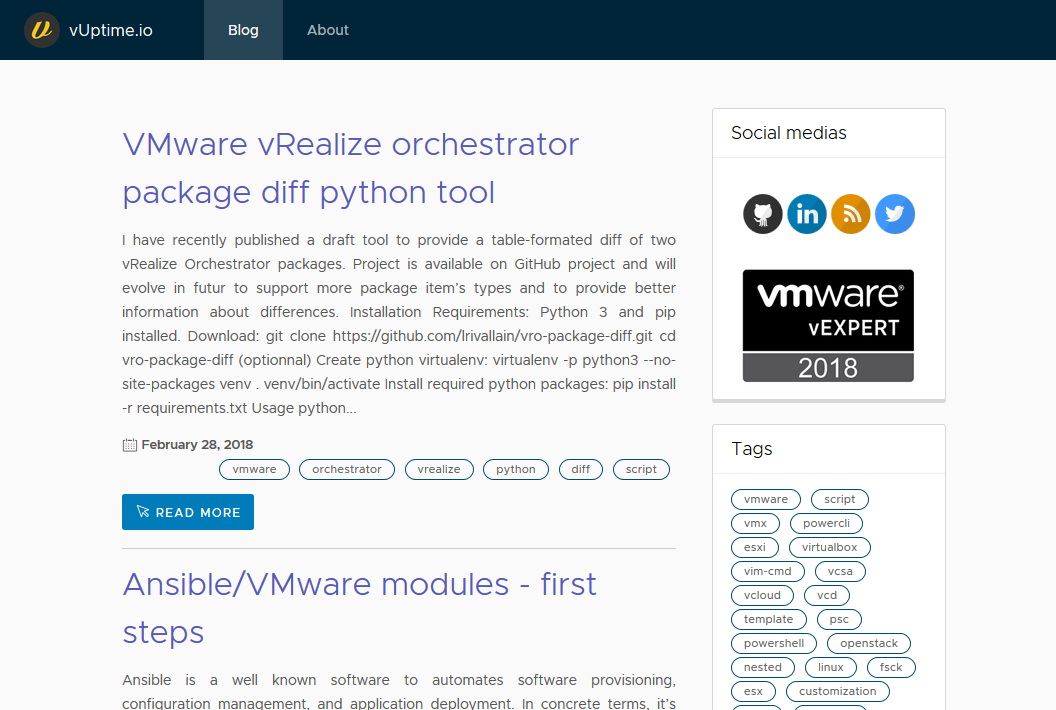
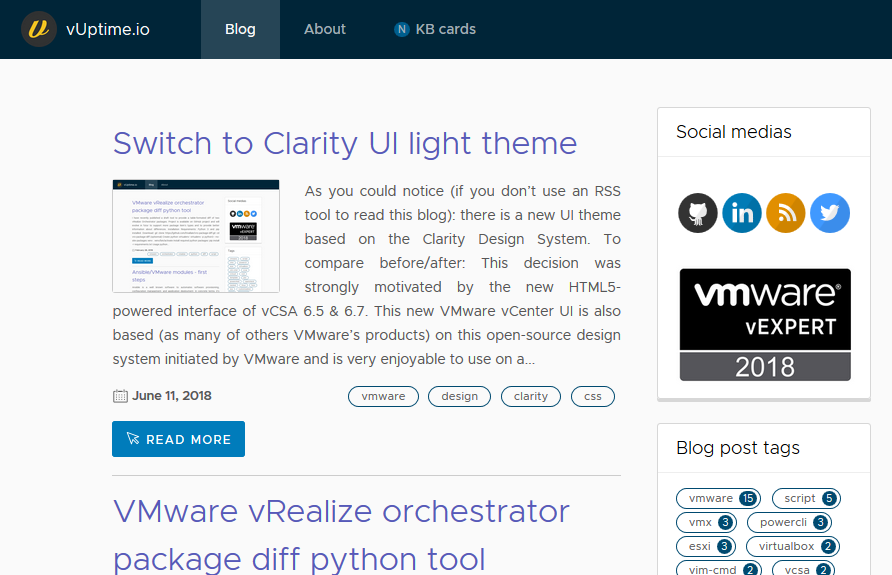
multi authorship support

diff --git a/_sass/_svg-icons.scss b/_sass/_svg-icons.scss
@@ -5,6 +5,7 @@
 
   &.keybaseio     { background-image: url('./images/icon-keybase-logo-40.png'); }
   &.mastodon      { background-image: url('./images/mastodon.png'); }
+  &.blog          { background-image: url('./images/icon-blog.png'); }
 
[2 lines of base64/hex data omitted]

diff --git a/index.html b/index.html
@@ -5,55 +5,63 @@ layout: blog
 <div class="posts">
   {% for post in paginator.posts %}
     <article class="">
-
       <h1><a href="{{ site.baseurl }}{{ post.url }}">{{ post.title }}</a></h1>
-
-	  {% if post.thumb %}
-	  <div class="thumb">
-	    <img src="{{ post.thumb }}" alt="{{ post.title }}">
-	  </div>
-	  {% endif %}
+      {% if post.thumb %}
+      <div class="thumb">
+        <img src="{{ post.thumb }}" alt="{{ post.title }}">
+      </div>
+      {% endif %}
       <div class="entry">
         {{ post.content | strip_html | truncatewords:75 }}
       </div>
-
-      <div class="small info">
-        <div class="date">
-		  <clr-icon shape="calendar"></clr-icon> {{ post.date | date: "%B %e, %Y" }}
-	    </div>
-
-        <div class="right">
-         {% for tag in post.tags %}
-           <a href="/tag/{{ tag }}/" class="label label-blue clickable small">{{ tag }}</a>
-         {% endfor %}
+	  <div class="info">
+        <div class="block left-block">
+          <a class="btn btn-primary" href="{{ site.baseurl }}{{ post.url }}" class="read-more">
+            <clr-icon shape="cursor-arrow" title="Read more"></clr-icon> Read More
+          </a>
         </div>
-      </div>
+        <div class="small-info block right-block">
+          <ul style="display: inline-block;">
+            <li><clr-icon shape="calendar"></clr-icon> {{ post.date | date: "%B %e, %Y" }}</li>
+            <li><clr-icon shape="user"></clr-icon>
+              {% for author in site.data.authors %}
+                {% if post.author == author.nick %}
+                  <a href="/about/#{{ author.nick }}" title="Details about author">{{ author.display_name }}</a>
+                  {% break %}
+                {% endif %}
+              {% endfor %}
+            </li>
 
-      <a class="btn btn-primary" href="{{ site.baseurl }}{{ post.url }}" class="read-more">
-		  <clr-icon shape="cursor-arrow" title="Read more"></clr-icon> Read More
-	  </a>
+          <li>
+			{% for tag in post.tags %}
+			  <a href="/tag/{{ tag }}/" class="label label-blue clickable small">{{ tag }}</a>
+            {% endfor %}
+          </li>
+        </div>
+	  </div>
     </article>
   {% endfor %}
 </div>
 
 {% if paginator.total_pages > 1 %}
   <!-- Pagination links -->
-  <hr>
-  <nav class="subnav">
+  <nav class="subnav pagination">
     <div class="prev">
       {% if paginator.previous_page %}
         <a href="{{ paginator.previous_page_path }}" class="previous">
           <button class="btn btn-sm">◀ Previous</button>
         </a>
-	  {% endif %}
+      {% endif %}
     </div>
-	<div class="page_number ">Page: {{ paginator.page }} of {{ paginator.total_pages }}</div>
-	<div class="next">
+    <div class="page_number ">Page: {{ paginator.page }} of {{ paginator.total_pages }}</div>
+    <div class="next">
       {% if paginator.next_page %}
         <a href="{{ paginator.next_page_path }}" class="next">
           <button class="btn btn-primary btn-sm">Next ▶</button>
         </a>
       {% endif %}
-  	</div>
+      </div>
   </nav>
 {% endif %}
+
+

diff --git a/_layouts/card.html b/_layouts/card.html
@@ -15,15 +15,28 @@ layout: default
         </div>
         <div class="card-block">
           <div class="post_infos">
-            <div>
-              <strong>Published:</strong>
-              <clr-icon shape="calendar"></clr-icon> {{ page.date | date: "%B %e, %Y" }}
-            </div>
-            <div><strong>Tags:</strong> {% for tag in page.tags %} {% capture tag_name %}{{ tag }}{% endcapture %}
-              <a href="/cards_tag/{{ tag_name }}/" class="label label-blue clickable">{{ tag_name }}</a> {% endfor %}
-            </div>
-          </div>
-
+        	<ul>
+            	<li>
+                	<strong>Published:</strong>
+                	<clr-icon shape="calendar"></clr-icon> {{ page.date | date: "%B %e, %Y" }}
+            	</li>
+            	<li>
+                	<strong>Author:</strong>
+                	<clr-icon shape="user"></clr-icon>
+                	{% for author in site.data.authors %}
+                    	{% if page.author == author.nick %}
+                        	<a href="/about/#{{ author.nick }}" title="Details about author">{{ author.display_name }}</a>
+                        	{% break %}
+                    	{% endif %}
+                	{% endfor %}
+            	</li>
+            	<li>
+                	<strong>Tags:</strong> {% for tag in page.tags %} {% capture tag_name %}{{ tag }}{% endcapture %}
+                	<a href="/cards_tag/{{ tag_name }}/" class="label label-blue clickable">{{ tag_name }}</a> {% endfor %}
+            	</li>
+        	</ul>
+    	  </div>
+ 
           <div class="post_entry">
             {{ content | markdownify }}
           </div>

diff --git a/_layouts/post.html b/_layouts/post.html
@@ -5,18 +5,31 @@ layout: blog
 <article class="post">
     <h1>{{ page.title }}</h1>
     <div class="post_infos">
-        <div>
-            <strong>Published:</strong>
-            <clr-icon shape="calendar"></clr-icon> {{ page.date | date: "%B %e, %Y" }}
-        </div>
-        <div><strong>Tags:</strong> {% for tag in page.tags %} {% capture tag_name %}{{ tag }}{% endcapture %}
-            <a href="/tag/{{ tag_name }}/" class="label label-blue clickable">{{ tag_name }}</a> {% endfor %}
-        </div>
+        <ul>
+            <li>
+                <strong>Published:</strong>
+                <clr-icon shape="calendar"></clr-icon> {{ page.date | date: "%B %e, %Y" }}
+            </li>
+            <li>
+			    <strong>Author:</strong>
+                <clr-icon shape="user"></clr-icon>
+                {% for author in site.data.authors %}
+                    {% if page.author == author.nick %}
+                        <a href="/about/#{{ author.nick }}" title="Details about author">{{ author.display_name }}</a>
+                        {% break %}
+                    {% endif %}
+                {% endfor %}
+            </li>
+            <li>
+                <strong>Tags:</strong> {% for tag in page.tags %} {% capture tag_name %}{{ tag }}{% endcapture %}
+                <a href="/tag/{{ tag_name }}/" class="label label-blue clickable">{{ tag_name }}</a> {% endfor %}
+            </li>
+        </ul>
     </div>
 
     <div class="post_entry">
         {{ content }}
     </div>
 
-    <hr> {% include disqus.html %}
+    {% include disqus.html %}
 </article>

diff --git a/style.scss b/style.scss
@@ -14,18 +14,29 @@ body { overflow: auto; } // fix clr-issue with x-scrollbar
 }
 
 .info {
-  display: inline-block;
   width: 100%;
   margin-top:0.5rem;
+  position: relative;
 }
 
-.small {
+.block {
+  display: inline-block;
+  margin-bottom: 1rem;
+}
+
+.small-info {
   font-size:0.9em;
 }
 
-.right {
+.right-block {
   float: right;
   text-align: right;
+}
+
+.left-block {
+  position: absolute;
+  top: 50%;
+  transform: translateY(50%);
 }
 
 .center {
@@ -54,10 +65,11 @@ pre {
   margin-top: 0.5rem;
 }
 
-.posts article {
+.posts article, .pagination {
   border-top: 1px solid #ccc;
   font-weight: 400;
   margin-bottom: 0.5rem;
+  clear: both;
 }
 
 .posts article .thumb {
@@ -74,7 +86,15 @@ pre {
 
 .post_infos, .post_entry, .comments {
   margin-top: 1rem;
-  margin-bottom: 1rem;
+  padding-bottom: 1rem;
+}
+
+.post_infos, .post_entry, {
+  border-bottom: 1px solid #ccc;
+}
+
+.small-info ul, .post_infos ul {
+  list-style-type: none;
 }
 
 .posts article .entry {
@@ -132,7 +152,7 @@ pre {
     display: none;
   }
   .header .branding, header .branding {
-     min-width: 0px;
+    min-width: 0px;
   }
 }
 

diff --git a/_layouts/default.html b/_layouts/default.html
@@ -36,8 +36,8 @@
             </div>
             <div class="header-nav">
               <a href="/" class="active nav-link nav-text" id="link-blog">Blog</a>
-              <a href="/about" class="nav-link nav-text" id="link-about">About</a>
               <a href="/cards" class="nav-link nav-text" id="link-cards"><span class="badge badge-info">N</span>KB cards</a>
+			  <a href="/about" class="nav-link nav-text" id="link-about">About</a>
             </div>
         </header>
         <div class="content-container flex-items-xs-around">

diff --git a/_layouts/blog.html b/_layouts/blog.html
@@ -15,10 +15,10 @@ layout: default
             </div>
             <div class="card-block center">
                 <p>
-                    {% include svg-icons.html %}
+                  {% include svg-icons.html %}
                 </p>
                 <p>
-                    <img src="/images/vexpert-2.png" class="vexpert">
+                  <a href="https://lri.ovh"><img src="/images/vexpert-2.png" class="vexpert"></a>
                 </p>
             </div>
         </div>

diff --git a/about.md b/about.md
@@ -3,31 +3,30 @@ layout: about
 title: About
 ---
 
-This blog is maintained by **Ludovic Rivallain** : [**lri.ovh**](https://lri.ovh).
+This blog is maintained by [**Ludovic Rivallain**](#lrivallain) but also hosts contributions from [**Jérémy Rossignol**](#jrossignol) and [**Antoine Harlaut**](#aharlaut).
 
-I am currently senior Virtualisation Engineer+SysAdmin in **[SII Group](http://www.groupe-sii.com)**, a French IT
-consulting company. Before that I used to work as tech leader of run/operations team of the Private Cloud offer at
-OVH hosting company.
-
-I work mainly on **VMware** virtual infrastructures, "IaaS/PaaS" cloud computing offers for key accounts
-(architecture, orchestration, disaster recovery plans, trainings…).
-
-And as I might be a little lazy sometimes, I love automation concepts and I deal with **Python**, **Powershell**
-and **Bash** scripts daily.
-
-<p class="center">
-    <a href="https://vexpert.vmware.com/directory/1741" target="_blank">
-        <img src="/images/vexpert.png" alt="vExpert logo" width="250">
-    </a>
-</p>
-
-### Open source
-
-I'm also self-interested in open-source solutions like **#Docker** or **#OpenStack**.
-
-### Contacts
-
-Please refer to my [linkedin profile](https://www.linkedin.com/in/ludovicrivallain) to contact me in private.
-
-In case of mail contacts, please note my PGP key fingerprint: 🔑 ``CBF2 D0FF 5BDF 1CF8 5094  4C05 C6BE 80D9 44DB 4587`` 
-(aka **``0x44DB4587``**)
+{% for author in site.data.authors %}
+<div class="card" id="{{ author.nick }}">
+    <div class="card-header">
+        {{ author.display_name }}
+    </div>
+    <div class="card-block">
+        {% capture author_include %}{% include {{ author.nick }}.md %}{% endcapture %}
+        {{ author_include | markdownify }}
+    </div>
+    <div class="card-footer">
+      {% if author.blog %}    
+        <a href="{{ author.blog }}" title="Visit blog"><i class="svg-icon blog"></i></a>
+      {% endif %}
+      {% if author.linkedin %}
+        <a href="https://www.linkedin.com/in/{{ author.linkedin }}" title="Visit Linkedin profile"><i class="svg-icon linkedin"></i></a>
+      {% endif %}
+      {% if author.twitter %}
+        <a href="https://www.twitter.com/{{ author.twitter }}" title="Visit Twitter profile"><i class="svg-icon twitter"> </i></a>
+      {% endif %}
+      {% if author.github %}
+        <a href="github.com/{{ author.github }}" title="Visit Github profile"><i class="svg-icon github">  </i></a>
+      {% endif %}
+    </div>
+</div>
+{% endfor %}

diff --git a/_includes/lrivallain.md b/_includes/lrivallain.md
@@ -1,0 +1,25 @@
+I am currently senior Virtualisation Engineer+SysAdmin in **[SII Group](http://www.groupe-sii.com)**, a French IT consulting company. Before that I used to work as tech leader of SRE (run/operations) team of the Private Cloud offer at **OVH** hosting company.
+
+I work mainly on **VMware** based virtual infrastructures, "IaaS/PaaS" cloud computing offers for key accounts
+(architecture, automation and orchestration, disaster recovery plans, trainings…).
+
+And as I might be a little lazy sometimes, I love automation concepts and I deal with **Python**, **Powershell**
+and/or **Bash** scripts daily.
+
+My **resume**: [**lri.ovh**](https://lri.ovh)
+
+<p class="center">
+    <a href="https://vexpert.vmware.com/directory/1741" target="_blank">
+        <img src="/images/vexpert.png" alt="vExpert logo" width="250">
+    </a>
+</p>
+
+#### Open source
+
+I'm also self-interested in open-source solutions like **#Docker**, **#OpenStack**, **#Ansible**…
+
+### Contacts
+
+Please refer to my [linkedin profile](https://www.linkedin.com/in/ludovicrivallain) to contact me in private.
+
+In case of mail contacts, please note my PGP key fingerprint: 🔑 ``CBF2 D0FF 5BDF 1CF8 5094  4C05 C6BE 80D9 44DB 4587`` (aka **``0x44DB4587``**)

diff --git a/_posts/2018-06-11-switch-to-clarity-ui-light-theme.md b/_posts/2018-06-11-switch-to-clarity-ui-light-theme.md
@@ -1,6 +1,7 @@
 ---
 layout: post
 title: Switch to Clarity UI light theme
+author: lrivallain
 category: Blog
 tags: vmware design clarity css
 thumb: /images/clarity-ui/after.png
@@ -11,8 +12,8 @@ As you could notice (if you don't use an RSS tool to read this blog): there is a
 To compare before/after:
 <link rel="stylesheet" href="/includes/cocoen/cocoen.min.css">
 <div class="cocoen">
-  <img src="/images/clarity-ui/before.png" alt="Before" title="Before" width="400">
-  <img src="/images/clarity-ui/after.png"  alt="After"  title="After"  width="400">
+  <img src="/images/clarity-ui/before.png" alt="Before" title="Before">
+  <img src="/images/clarity-ui/after.png"  alt="After"  title="After">
 </div>
 
 <script src="/includes/cocoen/cocoen.min.js"></script>

diff --git a/_posts/2015-2-10-nested-vmware-esxi-virtualbox-your-first-nested-virtual-machine.md b/_posts/2015-2-10-nested-vmware-esxi-virtualbox-your-first-nested-virtual-machine.md
@@ -1,6 +1,7 @@
 ---
 layout: post
 title: Nested VMware ESXi with virtualbox - Your first nested-virtual-machine
+author: lrivallain
 category: VMWare
 tags: datastore dummy esxi firewall nested ovftool vim-cmd virtualbox vmware vmx vnc
 ---

diff --git a/_cards/bookmark-vra-force-remove-managed-vm.md b/_cards/bookmark-vra-force-remove-managed-vm.md
@@ -1,6 +1,7 @@
 ---
 layout: card
 title: Bookmark – Removing a virtual machine from vRealize Automation 7.x using Cloud Client
+author: lrivallain
 tags: bookmark vrealize automation vra iaas
 date: 2018-06-25
 ---
